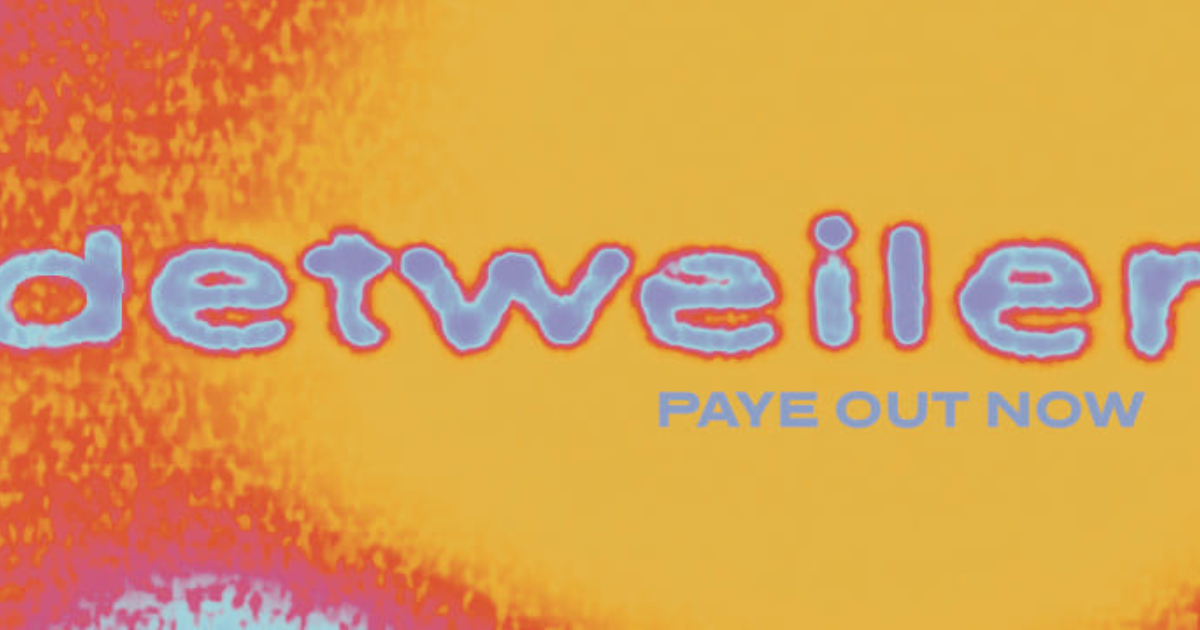
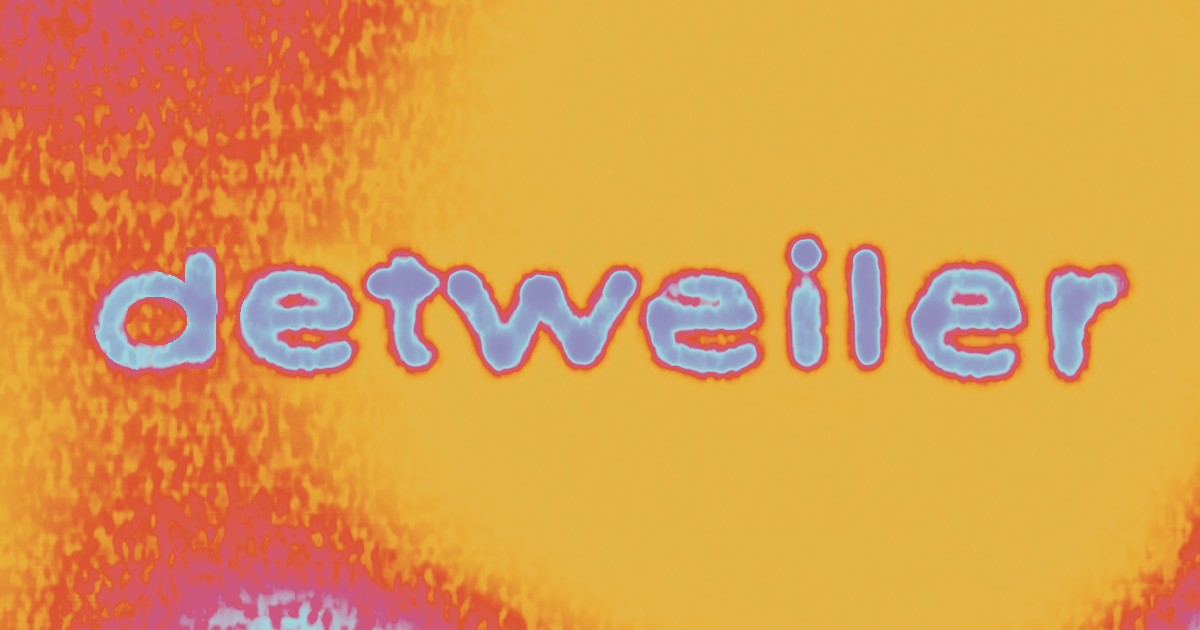
tweaks front end, inc socials in sticky footer, change to title and improved hover states

diff --git a/src/views/Gigs.js b/src/views/Gigs.js
@@ -31,12 +31,12 @@ function Gigs() {
   return (
     <>
       <Seo
-        title="Gigs | Detweiler"
-        description="Upcoming live dates for Detweiler"
+        title="Live dates | Detweiler"
+        description="Upcoming gigs and festivals dates for Detweiler"
       />
       <section className="container w-full lg:px-0 px-5 lg:w-3/4 mx-auto min-h-screen">
-        <h1 className="text-3xl font-bold text-center p-5">
-          Gigs
+        <h1 className="text-2xl font-bold text-center p-5">
+          upcoming dates
         </h1>
         <div className="p-5 border-8 border-payeRed rounded-xl">
         {gigs && gigs.map((gig) => (
@@ -44,39 +44,41 @@ function Gigs() {
             className=""
             key={gig._id}
           >
-            <div className="flex p-5 border-t-2 border-payeRed items-center">
-              <div className="basis-9/12 flex flex-col md:flex-row">
-                <div className="basis-1/4">
-                  <h3 className="text-payeBlue">
-                    {formatDate(new Date(gig.date))}
-                  </h3>
+            <a href={gig.ticketLink} target="_blank" rel="noopener noreferrer">
+              <div className="flex p-5 border-t-2 border-payeRed items-center hover:bg-blue-300/10">
+                <div className="basis-9/12 flex flex-col md:flex-row">
+                  <div className="basis-1/4">
+                    <h3 className="text-payeBlue">
+                      {formatDate(new Date(gig.date))}
+                    </h3>
+                  </div>
+                  <div className="basis-1/2">
+                    <h3 className="text-payeYellow">{gig.venue}</h3>
+                  </div>
+                  <div className="basis-1/4">
+                    <h3 className="text-payeBlue">
+                      {gig.location}
+                    </h3>
+                  </div>
                 </div>
-                <div className="basis-1/2">
-                  <h3 className="text-payeYellow">{gig.venue}</h3>
-                </div>
-                <div className="basis-1/4">
-                  <h3 className="text-payeBlue">
-                    {gig.location}
-                  </h3>
+                <div className="basis-3/12 flex flex-wrap justify-end">
+                  <div className="mb-2">
+                    <button className="text-payeYellow border border-payeYellow font-bold py-2 px-4 rounded w-24">
+                      <a href={gig.venueLink} target="_blank" rel="noopener noreferrer">
+                        Venue
+                      </a>
+                    </button>
+                  </div>
+                  <div className="ml-2">
+                    <button className="bg-payeYellow border border-payeYellow text-white font-bold py-2 px-4 rounded w-24">
+                      <a href={gig.ticketLink} target="_blank" rel="noopener noreferrer">
+                        Tickets
+                      </a>
+                    </button>
+                  </div>
                 </div>
               </div>
-              <div className="basis-3/12 flex flex-wrap justify-end">
-                <div className="mb-2">
-                  <button className="text-payeYellow border border-payeYellow font-bold py-2 px-4 rounded w-24">
-                    <a href={gig.venueLink} target="_blank" rel="noopener noreferrer">
-                      Venue
-                    </a>
-                  </button>
-                </div>
-                <div className="ml-2">
-                  <button className="bg-payeYellow border border-payeYellow text-white font-bold py-2 px-4 rounded w-24">
-                    <a href={gig.ticketLink} target="_blank" rel="noopener noreferrer">
-                      Tickets
-                    </a>
-                  </button>
-                </div>
-              </div>
-            </div>
+            </a>
           </div>
         ))}
         </div>

diff --git a/src/index.css b/src/index.css
@@ -23,54 +23,10 @@ p {
   color: #E5B446;
 }
 
-.nav-link:hover, .socials:hover {
+.nav-link:hover, .socials:hover, .release-link:hover {
   transition: all .5s ease-in-out;
   color: #E5B446;
 }
-
-/* .background {
-  min-height: 100vh;
-  --s: 300px;
-  --c: #555C6D;
-  --_g: #0000 52%, var(--c) 54% 57%, #0000 59%;
-  background:
-    radial-gradient(farthest-side at -33.33% 50%, var(--_g)) 0 calc(var(--s)/2),
-    radial-gradient(farthest-side at 50% 133.33%, var(--_g)) calc(var(--s)/2) 0,
-    radial-gradient(farthest-side at 133.33% 50%, var(--_g)),
-    radial-gradient(farthest-side at 50% -33.33%, var(--_g)),
-    #E09EA4;
-  background-size: calc(var(--s)/4.667) var(--s), var(--s) calc(var(--s)/4.667);
-  background-attachment: fixed;
-} */
-
-/* .background:hover {
-  min-height: 100vh;
-  --s: 300px;
-  --c: #E09EA4;
-  --_g: #0000 52%, var(--c) 54% 57%, #0000 59%;
-  background:
-    radial-gradient(farthest-side at -33.33% 50%, var(--_g)) 0 calc(var(--s)/2),
-    radial-gradient(farthest-side at 50% 133.33%, var(--_g)) calc(var(--s)/2) 0,
-    radial-gradient(farthest-side at 133.33% 50%, var(--_g)),
-    radial-gradient(farthest-side at 50% -33.33%, var(--_g)),
-    #555C6D;
-  background-size: calc(var(--s)/4.667) var(--s), var(--s) calc(var(--s)/4.667);
-} */
-
-/* .background:hover {
-  min-height: 100vh;
-  --s: 300px;
-  --c: #555C6D;
-  --_g: #0000 52%, var(--c) 54% 57%, #0000 59%;
-  background:
-    radial-gradient(farthest-side at 133.33% 50%, var(--_g)) 0 calc(var(--s)/2),
-    radial-gradient(farthest-side at 50% -33.33%, var(--_g)) calc(var(--s)/2) 0,
-    radial-gradient(farthest-side at -33.33% 50%, var(--_g)),
-    radial-gradient(farthest-side at 50% 133.33%, var(--_g)),
-    #E09EA4;
-  background-size: calc(var(--s)/4.667) var(--s), var(--s) calc(var(--s)/4.667);
-  background-attachment: fixed;
-} */
 
 .main {
   display: flex;
@@ -106,7 +62,6 @@ p {
   height:50vh;
   width: 5px;
   margin: 1rem 0;
-  filter: blur(1px);
   z-index: 1;
 }
 
@@ -115,15 +70,18 @@ p {
   background-image: url(./images/noise.png);
 }
 
-.noise-red{
+.gradient-line{
   background: #D7585F;
-  background-image: url(./images/noise.png);
+  background-image: linear-gradient(45deg, #D7585F, #E5B446);
+  background-size: 100%;
+  background-repeat: repeat;
 }
 
-.ground {
+/* .ground {
   width: 100%;
   bottom: 100px;
   mix-blend-mode: multiply;
+  transform: translate3d(0,0,0);
 }
 
 .ground-shadow {
@@ -134,4 +92,16 @@ p {
   background: radial-gradient(#800000, transparent), url('./images/shadow_noise.svg');
   background-size: cover;
   filter: contrast(150%) brightness(700%);
+} */
+
+.gradient-text, .title {
+  background-color: #E5B446;
+  background-image: linear-gradient(45deg, #E5B446, #D7585F);
+  background-size: 100%;
+  background-repeat: repeat;
+  background-clip: text;
+  -webkit-background-clip: text;
+  -webkit-text-fill-color: transparent;
+  -moz-background-clip: text;
+  -moz-text-fill-color: transparent;
 }

diff --git a/src/views/Home.js b/src/views/Home.js
@@ -1,6 +1,5 @@
 import React from "react";
 import { Seo } from "../components/Seo";
-import { FaInstagram, FaTwitter, FaYoutube, FaBandcamp, FaSpotify, FaItunesNote, FaEnvelope } from "react-icons/fa";
 import paye from '../images/paye_artwork.jpg';
 
 function Home() {
@@ -8,35 +7,23 @@ function Home() {
     <>
       <Seo
         title="Detweiler"
-        description="It's the website for the band Detweiler. Music, tour dates and more. New song PAYE out now."
+        description="It's the website for the band Detweiler. Music, tour dates and more. New song PAYE out now"
       />
       <div className="main">
         <div className="mainDiv">
-          <h1 className="text-payeYellow relative">Detweiler</h1>
-          <div className="ground relative">
-            <div className="ground-shadow"></div>
-          </div>
+          <h1 className="gradient-text">detweiler</h1>
           <div className='announcement'>
-            <h2 className="text-payeYellow">PAYE out now</h2>
+            <h2 className="gradient-text">PAYE out now</h2>
           </div>
-          <div className="line noise-red"/>
-          <div className="w-96 h-96 mb-5 px-5">
-            <a href="https://distrokid.com/hyperfollow/detweiler/paye-feat-love-trapezium">
+          <div className="line gradient-line"/>
+          <div className="mb-5 px-5">
+            <a href="https://songwhip.com/detweiler/paye" target="_blank" rel="noopener noreferrer">
               <img
                 src={paye}
-                className="w-full h-full object-contain rounded-xl"
-                alt=""
+                className="w-96 object-contain rounded-lg"
+                alt="paye artwork"
               />
             </a>
-            </div>
-          <div className="flex space-x-4 text-3xl text-payeRed justify-center items-center p-5">
-            <a className="socials" href="https://detweilertheband.bandcamp.com/"><FaBandcamp /></a>
-            <a className="socials"  href="https://open.spotify.com/artist/7zuFUpajycvDi7tzewyMaL"><FaSpotify /></a>
-            <a className="socials"  href="https://music.apple.com/gb/artist/detweiler/1450762252"><FaItunesNote /></a>
-            <a className="socials"  href="https://www.instagram.com/detweilerband/"><FaInstagram /></a>
-            <a className="socials"  href="https://twitter.com/detweilerband"><FaTwitter /></a>
-            <a className="socials"  href="https://www.youtube.com/@detweiler5838"><FaYoutube /></a>
-            <a className="socials"  href="mailto:band@detweiler.co.uk"><FaEnvelope /></a>
           </div>
         </div>
       </div>

diff --git a/src/views/Releases.js b/src/views/Releases.js
@@ -48,33 +48,38 @@ function Releases() {
   return (
     <>
       <Seo
-        title="Releases | Detweiler"
-        description="All releases by Detweiler"
+        title="Music | Detweiler"
+        description="All music and releases by Detweiler"
       />
       <section className="container w-full lg:px-0 px-5 lg:w-3/4 mx-auto min-h-screen">
-        <h1 className="text-3xl font-bold text-center p-5">Releases</h1>
+        <h1 className="text-2xl font-bold text-center p-5">music</h1>
         <div className="grid grid-cols-1 md:grid-cols-2 lg:grid-cols-3 gap-8 pb-5">
           {releases &&
             releases.map((release) => (
               <div
-                className=""
                 key={release.title}
               >
                 <div className="flex flex-col items-center">
+                <a href={release.stream} target="_blank" rel="noopener noreferrer">
                   <img
                     src={urlFor(release.image).width(200).url()}
                     alt={release.title}
-                    className="rounded-l object-cover w-40 h-40 border-4 shadow-inner std-border"
+                    className="rounded-lg object-cover w-40 h-40 border-2 shadow-inner border-payeRed"
                   />
+                </a>
+                <a href={release.stream} target="_blank" rel="noopener noreferrer">
                   <h2 className="text-center text-2xl pt-3 text-payeYellow">
                     {release.title}
                   </h2>
+                </a>
                 <p className="text-payeBlue mt-3">
-                  <a href={release.link}>Buy</a> |{" "}
-                  <a href={release.stream}>Stream</a> |{" "}
-                  <button onClick={() => handleInfoClick(release._id)}>
-                    Info
-                  </button>
+                  {release.link && (
+                    <>
+                      <a className="release-link" href={release.link} target="_blank" rel="noopener noreferrer">Buy</a> |{" "}
+                    </>
+                  )}
+                  <a className="release-link" href={release.stream} target="_blank" rel="noopener noreferrer">Listen</a> |{" "}
+                  <button className="release-link" onClick={() => handleInfoClick(release._id)}>Info</button>
                 </p>
                 {expandedRelease === release._id && (
                   <p

diff --git a/src/components/Footer.js b/src/components/Footer.js
@@ -1,12 +1,18 @@
 import React from "react";
+import { FaInstagram, FaTwitter, FaYoutube, FaBandcamp, FaSpotify, FaItunesNote, FaEnvelope } from "react-icons/fa";
+
 
 const Footer = () => {
 	return (
-		<div className="flex justify-center font-bold mt-28 p-5">
-			<p>
-				Cool 😎 website by <a href="https://github.com/JosephHartley" style={{ color: "#E5B446" }}>Joseph Hartley</a>
-			</p>
-		</div>
+		<div className="mt-28 flex space-x-6 text-2xl text-payeRed justify-center items-center p-5">
+      <a className="socials" href="https://detweilertheband.bandcamp.com/" target="_blank" rel="noopener noreferrer"><FaBandcamp /></a>
+      <a className="socials"  href="https://open.spotify.com/artist/7zuFUpajycvDi7tzewyMaL" target="_blank" rel="noopener noreferrer"><FaSpotify /></a>
+      <a className="socials"  href="https://music.apple.com/gb/artist/detweiler/1450762252" target="_blank" rel="noopener noreferrer"><FaItunesNote /></a>
+      <a className="socials"  href="https://www.instagram.com/detweilerband/" target="_blank" rel="noopener noreferrer"><FaInstagram /></a>
+      <a className="socials"  href="https://twitter.com/detweilerband" target="_blank" rel="noopener noreferrer"><FaTwitter /></a>
+      <a className="socials"  href="https://www.youtube.com/@detweiler5838" target="_blank" rel="noopener noreferrer"><FaYoutube /></a>
+      <a className="socials"  href="mailto:band@detweiler.co.uk" target="_blank" rel="noopener noreferrer"><FaEnvelope /></a>
+    </div>
 	);
 };
 

diff --git a/src/components/Navbar.js b/src/components/Navbar.js
@@ -4,12 +4,12 @@ import { NavLink } from "react-router-dom";
 const Navbar = () => {
 	return (
 		<nav id="menu" className="container lg:px-0 px-5 py-2 lg:py-0 lg:w-3/4 w-full mx-auto flex flex-col lg:flex-row justify-between h-20 items-center font-bold">
-			<h2 className="text-xl lg:text-2xl">
+			<h2 className="title text-xl lg:text-2xl">
         <NavLink
           to="/"
           className="nav-link"
         >
-          Detweiler
+          detweiler
         </NavLink>
       </h2>
 			<div className="lg:block">
@@ -19,7 +19,7 @@ const Navbar = () => {
 							to="/gigs"
 							className="nav-link"
 						>
-							Gigs
+							live
 						</NavLink>
 					</li>
 					<li>
@@ -27,7 +27,7 @@ const Navbar = () => {
 							to="/releases"
 							className="nav-link"
 						>
-							Releases
+							music
 						</NavLink>
 					</li>
           <li>
@@ -35,7 +35,7 @@ const Navbar = () => {
 							to="/news"
 							className="nav-link"
 						>
-							News
+							news
 						</NavLink>
 					</li>
 				</ul>

diff --git a/src/views/News.js b/src/views/News.js
@@ -7,11 +7,11 @@ function News() {
     <>
       <Seo
         title="News | Detweiler"
-        description="News from Detweiler"
+        description="News from Detweiler HQ"
       />
       <section className="container w-full lg:px-0 px-5 lg:w-3/4 mx-auto min-h-screen">
-        <h1 className="text-3xl font-bold text-center p-5">
-          News
+        <h1 className="text-2xl font-bold text-center p-5">
+          news
         </h1>
         <div className="p-5 border-8 border-payeRed rounded-xl">
           <Substack />

diff --git a/src/App.js b/src/App.js
@@ -24,7 +24,7 @@ function App() {
             <Route path="/news" element={<News />} />
             <Route path="/releases" element={<Releases />} />
           </Routes>
-        <div className="max-w-full">
+        <div className="md:sticky bottom-0 max-w-full backdrop-opacity-10 backdrop-invert bg-blue-300/10 shadow-lg z-10">
           <Footer />
         </div>
         <ScrollToTop />

diff --git a/src/components/Header.js b/src/components/Header.js
@@ -4,7 +4,7 @@ import Navbar from "./Navbar";
 const Header = () => {
 	return (
 		<header>
-			<div>
+			<div className="mb-7">
 				<Navbar />
 			</div>
 		</header>
